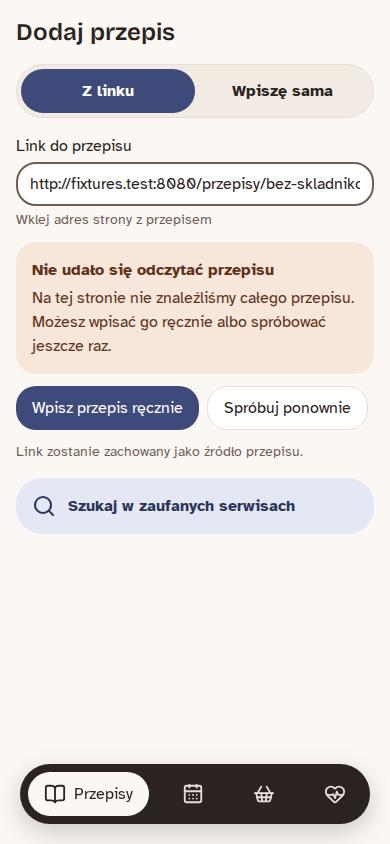
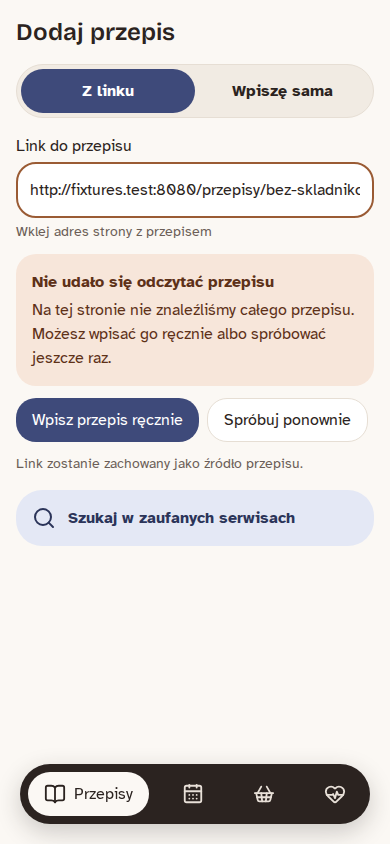
fix: accent border and 56/60 px sizes on the add-recipe link screen

Changed region(s): [[0.0308, 0.1848, 0.9846, 0.5545], [0.0615, 0.5853, 0.7692, 0.6469]]

diff --git a/tests/e2e/s2-s3-import.spec.ts b/tests/e2e/s2-s3-import.spec.ts
@@ -1,4 +1,4 @@
-import { expect, test, type Page } from '@playwright/test';
+import { expect, test, type Locator, type Page } from '@playwright/test';
 import { TINY_PNG, fillRecipeForm, logIn, resetServer, seedRecipe } from './helpers';
 
 // The test pages come from the "fixtures" service (tests/e2e/fixtures); the app fetches them with
@@ -14,6 +14,23 @@ async function logInToCollection(page: Page) {
   await logIn(page);
   await expect(page.getByRole('heading', { level: 1, name: 'Kolekcja' })).toBeVisible();
 }
+
+const borderOf = (locator: Locator) =>
+  locator.evaluate((element) => {
+    const style = getComputedStyle(element);
+    return { width: style.borderTopWidth, color: style.borderTopColor };
+  });
+
+/** The computed colour of the `--{name}` token in the current theme. */
+const tokenColor = (page: Page, name: string) =>
+  page.evaluate((token) => {
+    const probe = document.createElement('span');
+    probe.style.color = `var(--${token})`;
+    document.body.append(probe);
+    const color = getComputedStyle(probe).color;
+    probe.remove();
+    return color;
+  }, name);
 
 /** Submits `address` on the "Z linku" card of the "Dodaj przepis" screen. */
 async function submitLink(page: Page, address: string) {
@@ -76,6 +93,15 @@ test.describe('S2: dodanie przepisu z linku', () => {
     await expect(page.getByLabel('Link do przepisu')).toBeVisible();
     await expect(page.getByText('Wklej adres strony z przepisem')).toBeVisible();
     await expect(page.getByRole('button', { name: 'Odczytaj przepis' })).toBeVisible();
+    const field = page.getByLabel('Link do przepisu');
+    expect(await borderOf(field)).toEqual({
+      width: '2px',
+      color: await tokenColor(page, 'primary'),
+    });
+    expect((await field.boundingBox())?.height).toBe(56);
+    expect(
+      (await page.getByRole('button', { name: 'Odczytaj przepis' }).boundingBox())?.height,
+    ).toBe(60);
     await expect(page.getByRole('link', { name: 'Szukaj w zaufanych serwisach' })).toBeVisible();
 
     await submitLink(page, pageUrl('czytelna'));
@@ -291,6 +317,10 @@ test.describe('S3: link, którego nie da się odczytać', () => {
       await expect(alert).toContainText('Nie udało się odczytać przepisu');
       await expect(field).toHaveValue(pageUrl(name));
       await expect(field).toHaveAttribute('aria-invalid', 'true');
+      expect(await borderOf(field)).toEqual({
+        width: '2px',
+        color: await tokenColor(page, 'accent'),
+      });
       await expect(page.getByRole('button', { name: 'Wpisz przepis ręcznie' })).toBeVisible();
       await expect(page.getByRole('button', { name: 'Spróbuj ponownie' })).toBeVisible();
       await expect(page.getByText('Link zostanie zachowany jako źródło przepisu.')).toBeVisible();

diff --git a/src/client/components/ui/Input.tsx b/src/client/components/ui/Input.tsx
@@ -4,7 +4,15 @@ import type { InputHTMLAttributes } from 'react';
 export const inputClassName =
   'min-h-touch rounded-md border border-ink-muted bg-surface px-3 py-2 text-ink';
 
-/** A text input with a touch-sized box. */
-export function Input({ className = '', ...rest }: InputHTMLAttributes<HTMLInputElement>) {
-  return <input className={`${inputClassName} ${className}`.trim()} {...rest} />;
+const EMPHASIS = {
+  primary: 'min-h-14 rounded-md border-2 border-primary bg-surface px-3 py-2 text-ink',
+  accent: 'min-h-14 rounded-md border-2 border-accent bg-surface px-3 py-2 text-ink',
+};
+
+type Props = InputHTMLAttributes<HTMLInputElement> & { emphasis?: keyof typeof EMPHASIS };
+
+/** A text input with a touch-sized box; `emphasis` makes it the large (56 px) field with a 2 px `primary` or `accent` border. */
+export function Input({ className = '', emphasis, ...rest }: Props) {
+  const base = emphasis ? EMPHASIS[emphasis] : inputClassName;
+  return <input className={`${base} ${className}`.trim()} {...rest} />;
 }

diff --git a/src/client/screens/ImportScreen.tsx b/src/client/screens/ImportScreen.tsx
@@ -114,7 +114,8 @@ export function ImportScreen() {
             type="text"
             inputMode="url"
             autoComplete="off"
-            className={`w-full ${failed ? 'border-2 border-accent' : 'border-2 border-primary'}`}
+            emphasis={failed ? 'accent' : 'primary'}
+            className="w-full"
             value={address}
             aria-invalid={invalid}
             aria-describedby={
@@ -138,7 +139,7 @@ export function ImportScreen() {
         </div>
         {failed ? null : (
           <div className="flex flex-wrap gap-2">
-            <Button type="submit" disabled={reading}>
+            <Button type="submit" size="action" disabled={reading}>
               Odczytaj przepis
             </Button>
           </div>

diff --git a/src/client/components/ui/Button.tsx b/src/client/components/ui/Button.tsx
@@ -1,7 +1,7 @@
 import type { ButtonHTMLAttributes } from 'react';
 
 type Variant = 'primary' | 'secondary' | 'soft' | 'danger' | 'danger-outline';
-type Size = 'md' | 'cook';
+type Size = 'md' | 'action' | 'cook';
 
 const VARIANTS: Record<Variant, string> = {
   primary: 'bg-primary text-on-primary',
@@ -13,6 +13,7 @@ const VARIANTS: Record<Variant, string> = {
 
 const SIZES: Record<Size, string> = {
   md: 'min-h-touch min-w-touch px-4',
+  action: 'min-h-action min-w-touch px-4',
   cook: 'min-h-14 min-w-14 px-4 text-2xl',
 };
 
